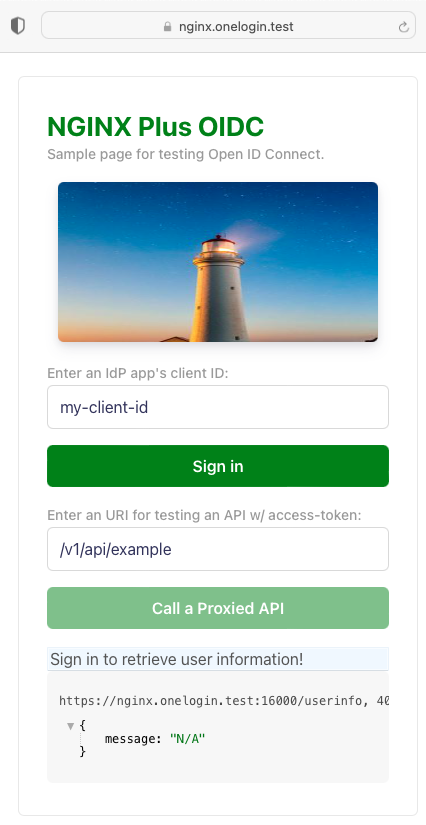
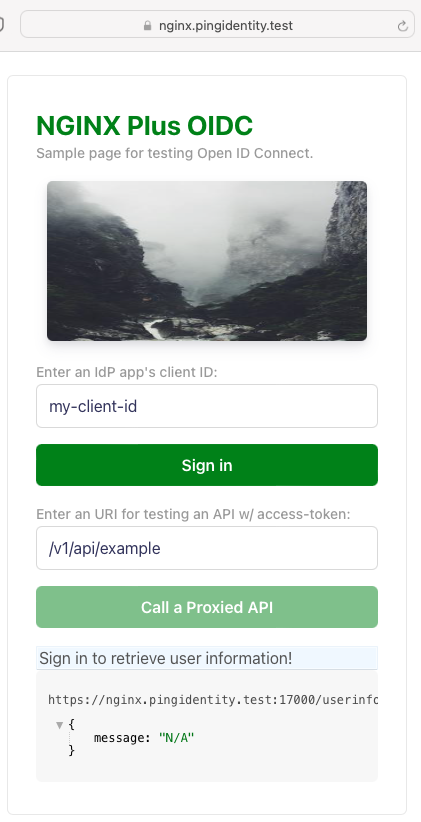
feat: Container based NGINX Plus OIDC Test for Ping Identity Integration

diff --git a/docs/03-Container-Test.md b/docs/03-Container-Test.md
@@ -1,6 +1,6 @@
-# How To Locally Test Containerized NGINX Plus OIDC for OneLogin Integration
+# How To Locally Test Containerized NGINX Plus OIDC for Ping Identity Integration
 
-Take the following steps to run NGINX Plus in a Docker container and test OIDC for OneLogin integration.
+Take the following steps to run NGINX Plus in a Docker container and test OIDC for Ping Identity integration.
 
 > Note: You could remotely test in your remote machine if you copy entire files there.
 
@@ -11,7 +11,7 @@ Take the following steps to run NGINX Plus in a Docker container and test OIDC f
 
   ```bash
   $ sudo vi /etc/hosts
-  127.0.0.1 nginx.onelogin.test
+  127.0.0.1 nginx.pingidentity.test
   ```
 
 - [Download NGINX Plus license files](https://www.nginx.com/free-trial-request/), and copy them to `./docker/build-context/ssl/`
@@ -39,7 +39,7 @@ Take the following steps to run NGINX Plus in a Docker container and test OIDC f
 
 ## 3. Run a Browser and Test OIDC
 
-- **Run** a Web Browser with `https://nginx.onlogin.test:16000`, and enter an `IdP application`'s `client ID`:
+- **Run** a Web Browser with `https://nginx.pingidentity.test:17000`, and enter an `IdP application`'s `client ID`:
 
   ![](./img/run-browser.png)
 
@@ -47,7 +47,7 @@ Take the following steps to run NGINX Plus in a Docker container and test OIDC f
 
   Enter your name and password which are registered in OntLogin.
 
-  ![](./img/login-onelogin.png)
+  ![](./img/login-ping-one.png)
 
   You will see the following screen once you are successfully signed-in.
 
